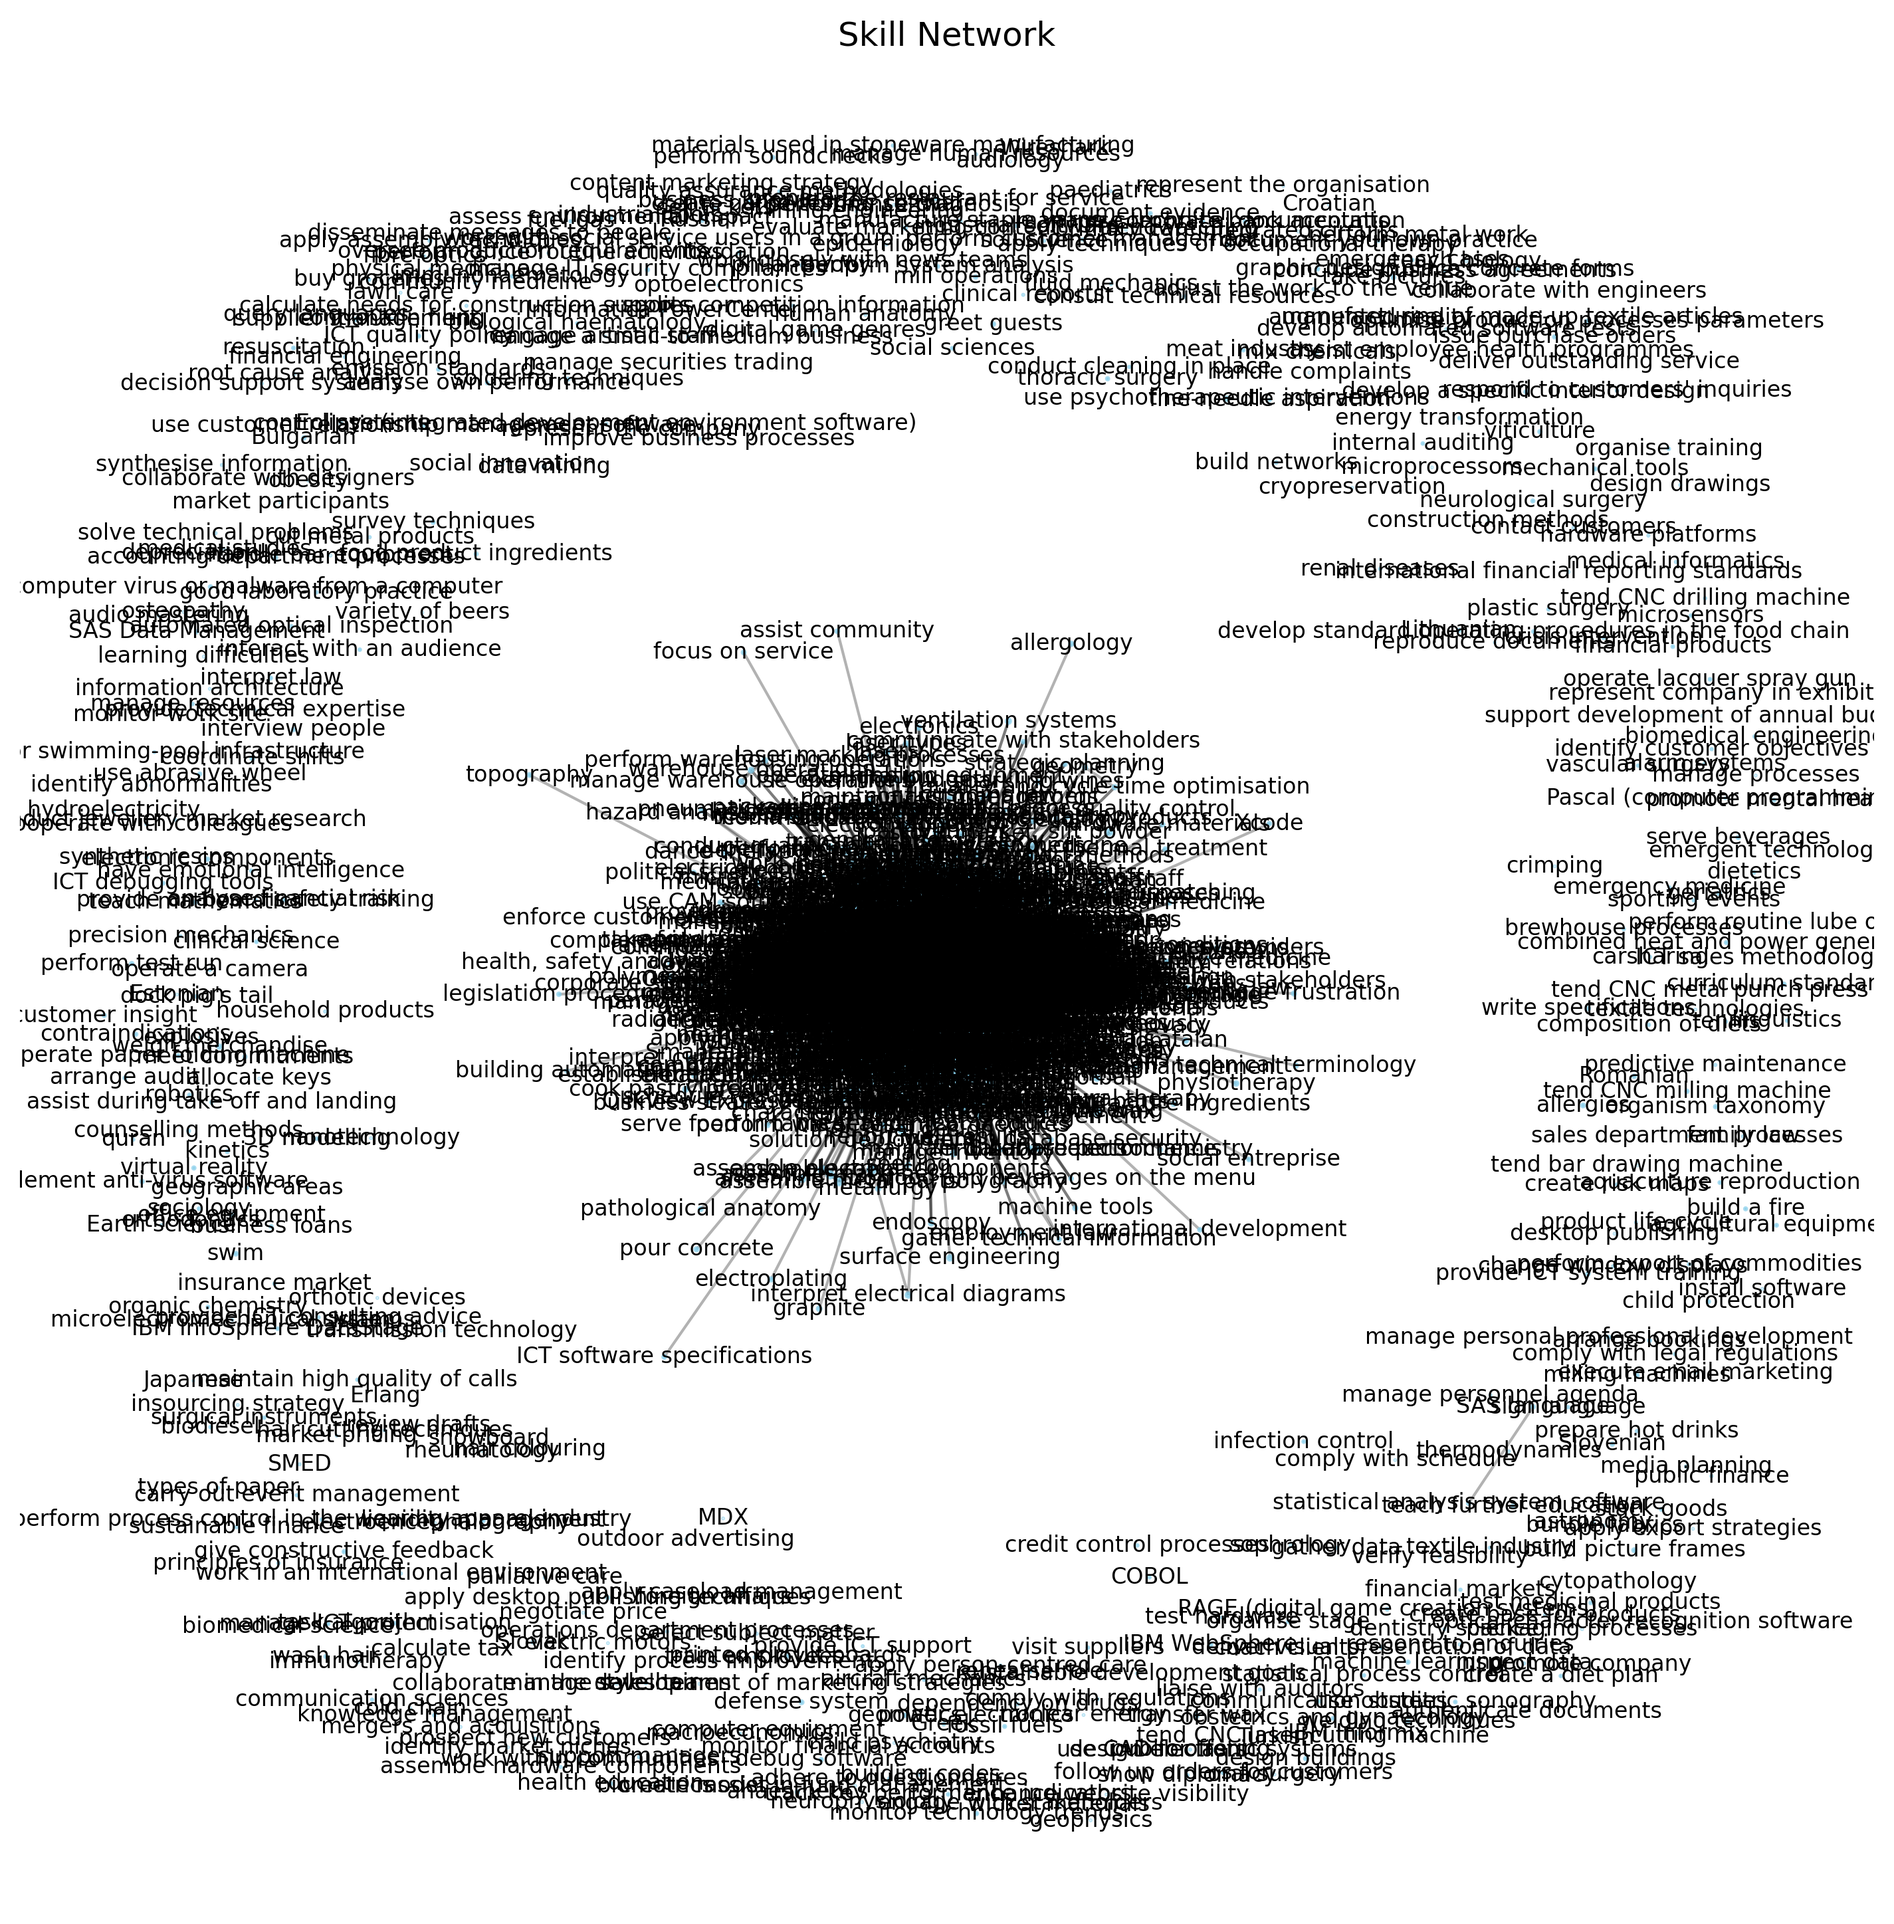
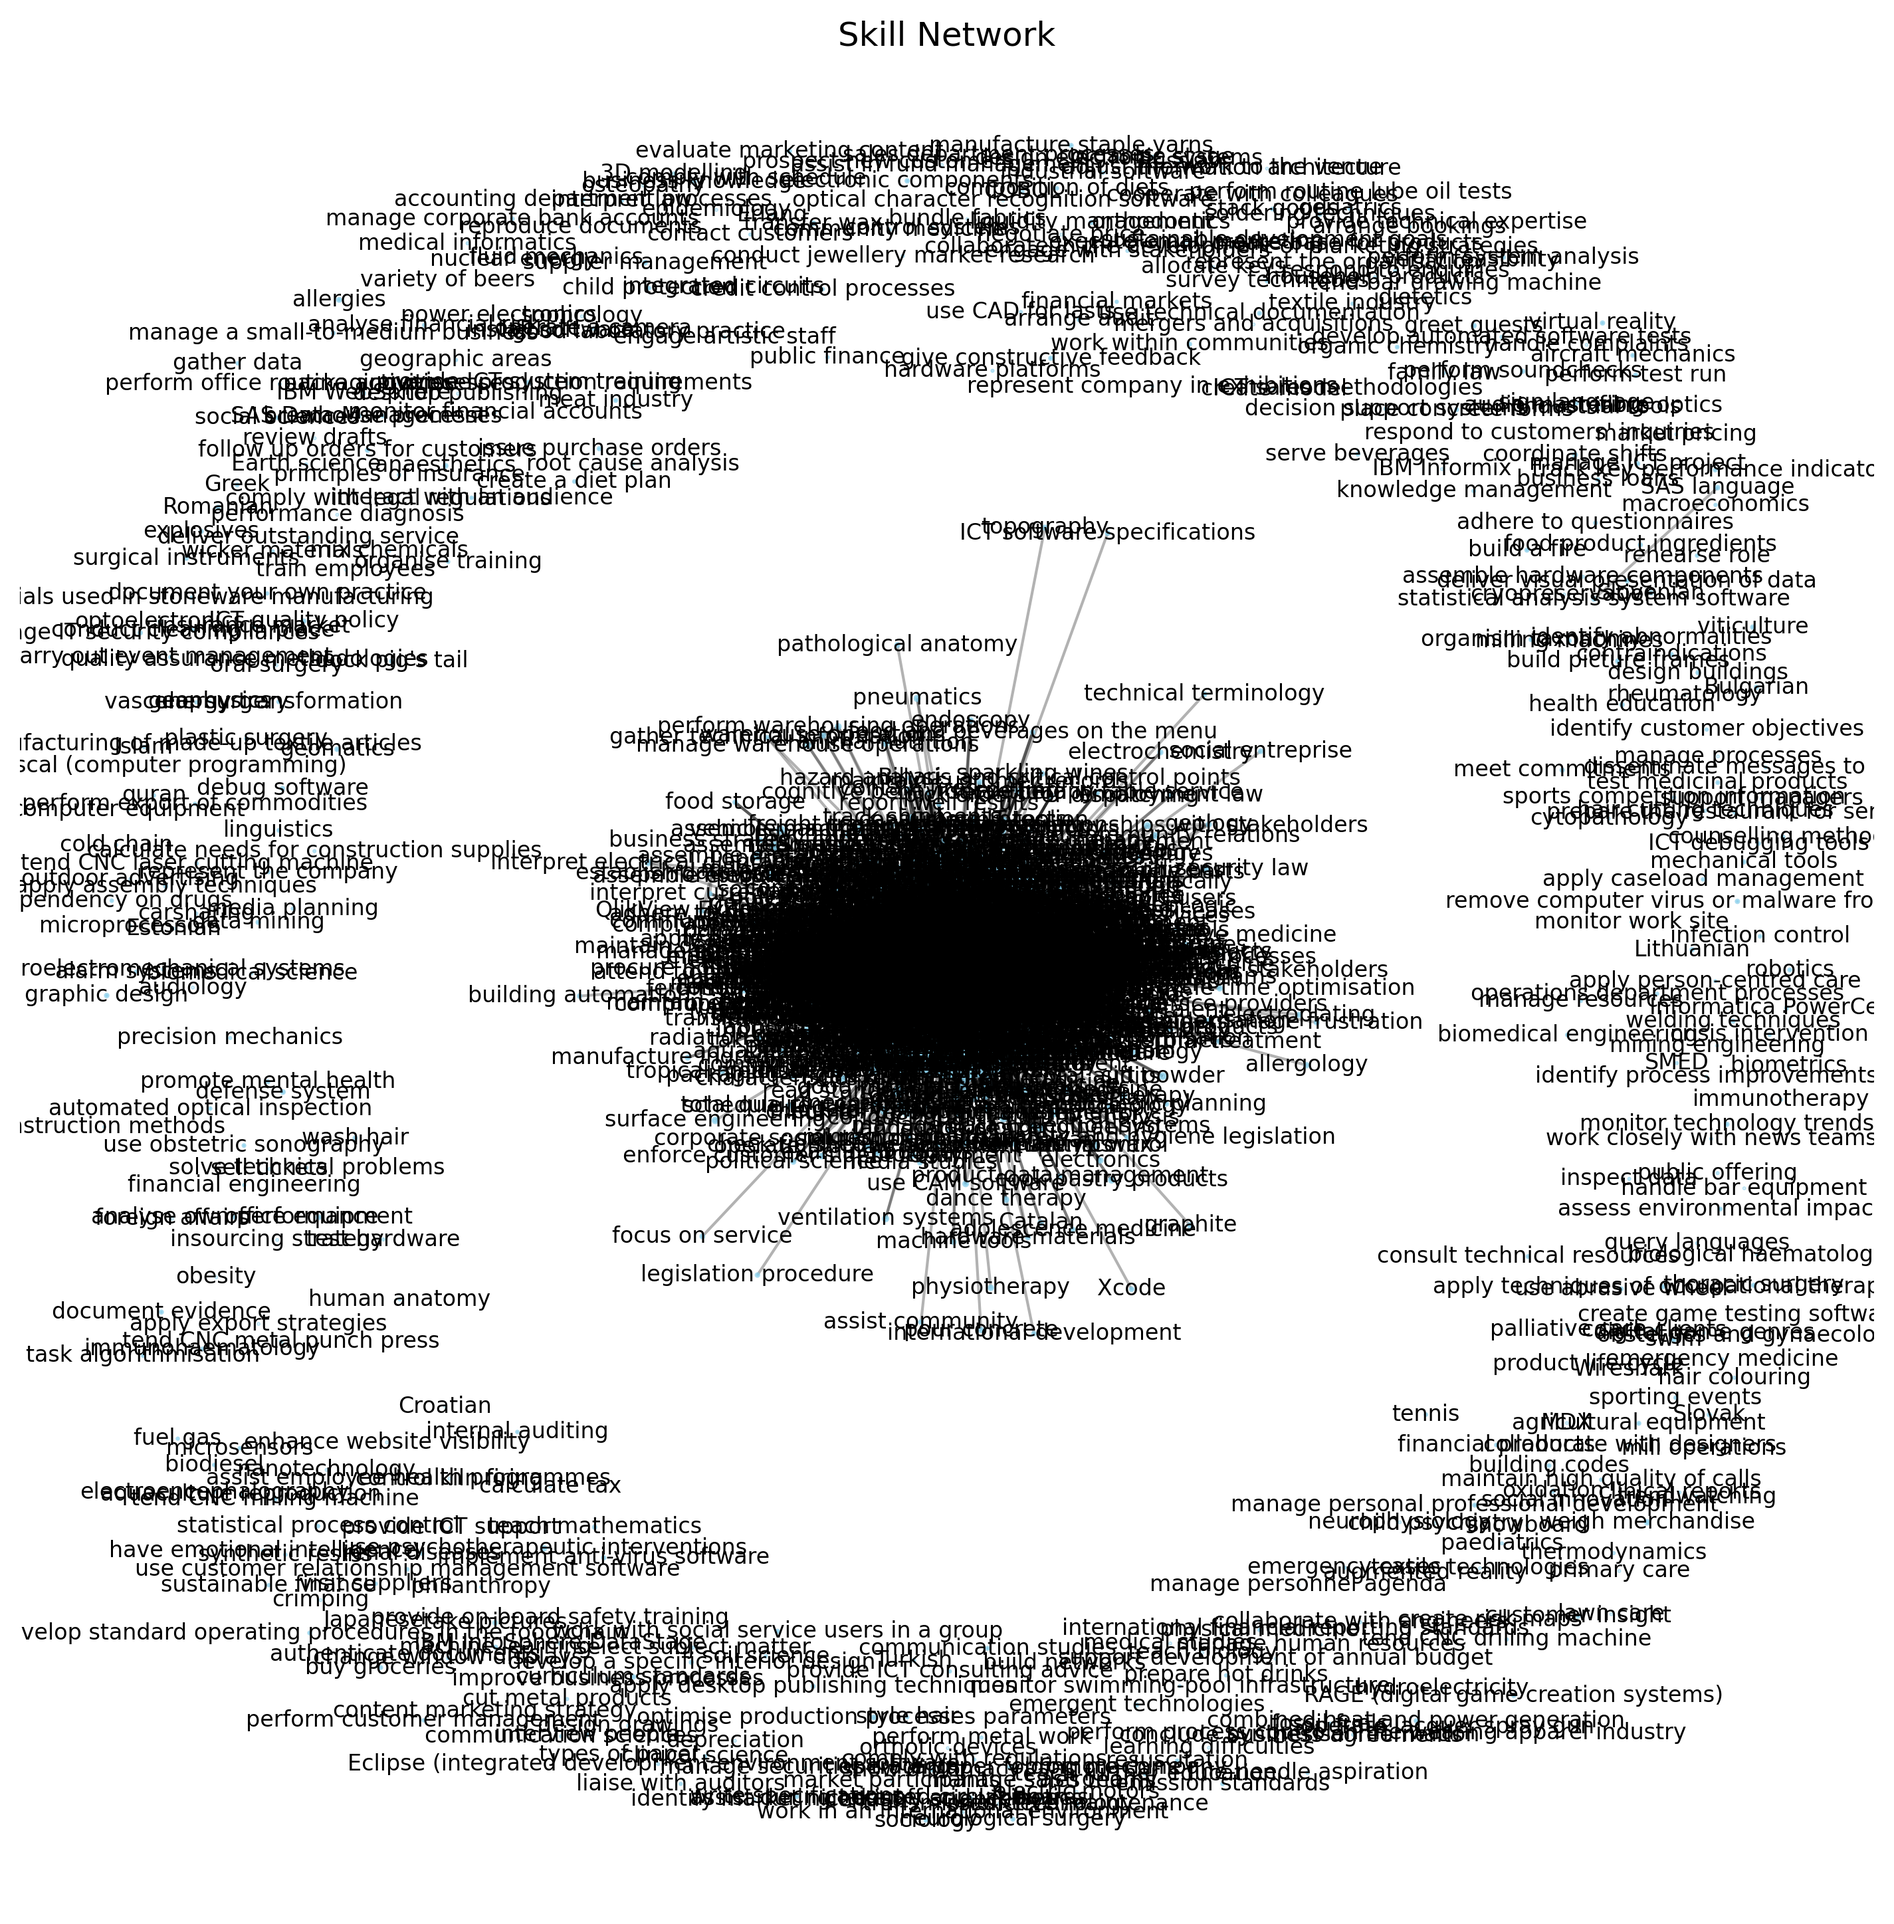
added some more analysis of some csvs

diff --git a/thesis_analysis/analyze_results.py b/thesis_analysis/analyze_results.py
@@ -1,0 +1,90 @@
+import pandas as pd
+import os
+from thesis_analysis import config
+
+
+def analyze_results():
+    static_csv_dir = os.path.join(config.OUTPUT_DIR, "static", "csvs")
+    temporal_csv_dir = os.path.join(config.OUTPUT_DIR, "temporal", "csvs")
+    results_dir = os.path.join(config.OUTPUT_DIR, "key_skills")
+    os.makedirs(results_dir, exist_ok=True)
+
+    # BRIDGES (High Betweenness Centrality) 
+    node_metrics_file = os.path.join(static_csv_dir, "node_metrics.csv")
+    if os.path.exists(node_metrics_file):
+        df_static = pd.read_csv(node_metrics_file)
+
+        bridges = df_static.sort_values(
+            by='betweenness_centrality', ascending=False
+        ).head(20)
+        print("\n=== Top 20 Bridge Skills (High Betweenness Centrality) ===")
+        print("These skills connect different clusters in the network:\n")
+        for i, row in bridges.iterrows():
+            print(f"  {row['skill']:<45} betweenness={row['betweenness_centrality']:.4f}")
+        bridges.to_csv(os.path.join(results_dir, "top_bridges.csv"), index=False)
+
+        # B. Skill Ranks (by weighted degree)
+        ranks = df_static.sort_values(
+            by='weighted_degree', ascending=False
+        ).head(20)
+        print("\n=== Top 20 Skill Ranks (Highest Weighted Degree) ===")
+        print("These are the most popular/connected skills overall:\n")
+        for i, row in ranks.iterrows():
+            print(f"  {row['skill']:<45} weighted_degree={row['weighted_degree']:,.0f}")
+        ranks.to_csv(os.path.join(results_dir, "top_skill_ranks.csv"), index=False)
+    else:
+        print(f"Warning: {node_metrics_file} not found. Skipping bridges & ranks.")
+
+    # STABLE SKILLS (Consistent presence over time)
+    temporal_file = os.path.join(temporal_csv_dir, "temporal_node_stats.csv")
+    if os.path.exists(temporal_file):
+        df_temp = pd.read_csv(temporal_file)
+        total_months = df_temp['period'].nunique()
+
+        skill_stability = df_temp.groupby('skill').agg(
+            months_present=('period', 'count'),
+            avg_degree_centrality=('degree_centrality', 'mean'),
+            std_degree_centrality=('degree_centrality', 'std'),
+            avg_betweenness=('betweenness_centrality', 'mean'),
+            avg_frequency=('frequency', 'mean')
+        ).reset_index()
+
+        # Fill NaN std (skills with only 1 month get NaN)
+        skill_stability['std_degree_centrality'] = skill_stability['std_degree_centrality'].fillna(0)
+
+        # Filter: present in at least 80% of months
+        threshold = total_months * 0.8
+        stable = skill_stability[skill_stability['months_present'] >= threshold]
+
+        # Sort by lowest volatility (std) while being reasonably important
+        # Use coefficient of variation (std/mean) to normalize
+        stable = stable.copy()
+        stable['cv'] = stable['std_degree_centrality'] / stable['avg_degree_centrality'].replace(0, float('inf'))
+        stable = stable.sort_values(by='cv', ascending=True).head(20)
+
+        print(f"\n=== Top 20 Stable Skills (Present in >={threshold:.0f}/{total_months} months, lowest volatility) ===")
+        print("These skills maintain consistent importance over time:\n")
+        for i, row in stable.iterrows():
+            print(f"  {row['skill']:<45} months={row['months_present']:>3}  avg_centrality={row['avg_degree_centrality']:.4f}  CV={row['cv']:.4f}")
+        stable.to_csv(os.path.join(results_dir, "top_stable_skills.csv"), index=False)
+    else:
+        print(f"Warning: {temporal_file} not found. Skipping stable skills.")
+
+    # EMERGING SKILLS (Highest Centrality Growth)
+    emerging_file = os.path.join(temporal_csv_dir, "emerging_skills.csv")
+    if os.path.exists(emerging_file):
+        emerging = pd.read_csv(emerging_file)
+        print("\n=== Top Emerging Skills (Highest Centrality Growth) ===")
+        print("These skills grew the most in importance over the observation period:\n")
+        for i, row in emerging.iterrows():
+            print(f"  {row['skill']:<45} growth={row['growth']:.4f}")
+        # Copy to results dir for easy access
+        emerging.to_csv(os.path.join(results_dir, "top_emerging_skills.csv"), index=False)
+    else:
+        print(f"Warning: {emerging_file} not found. Skipping emerging skills.")
+
+    print(f"\n[OK] All results saved to: {results_dir}")
+
+
+if __name__ == "__main__":
+    analyze_results()

diff --git a/thesis_analysis/modules/pipeline.py b/thesis_analysis/modules/pipeline.py
@@ -1,7 +1,7 @@
 import os
 import pandas as pd
 from thesis_analysis import config
-from thesis_analysis.modules import network_builder, analysis, association_rules, visualization, temporal
+from thesis_analysis.modules import network_builder, analysis, visualization, temporal
 
 def static_analysis(df):
     """
@@ -100,7 +100,6 @@ def temporal_analysis(df):
     
     # Visualization (Temporal)
     visualization.plot_metric_trends(global_stats_df, temporal_img_dir)
-    visualization.plot_skill_heatmap(node_stats_df, temporal_img_dir, top_n=50)
     
     # Plot trajectories for top emerging skills
     if not emerging_skills.empty:
